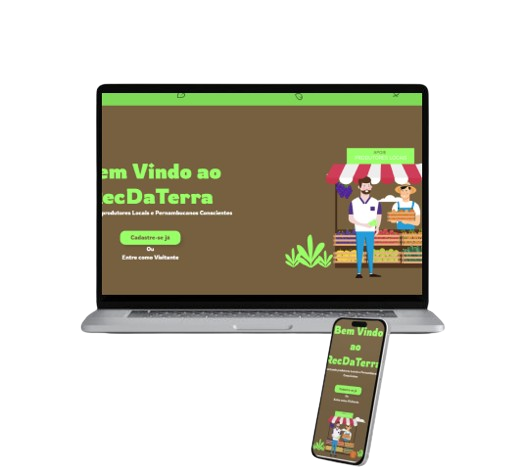
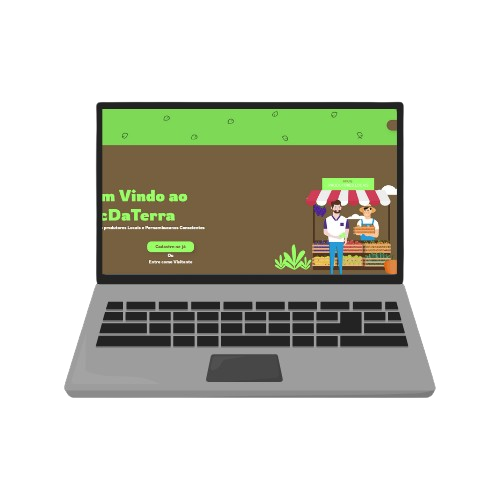
atualizando mockups e readme

diff --git a/src/pages/Projects.jsx b/src/pages/Projects.jsx
@@ -29,8 +29,7 @@ import Footer from "../components/Footer";
 /*Importação das Imagens*/
 import MockupRec from "../img/Mockup RecDaTerra.png";
 import MockupMarvel from "../img/Mockup Marvel.png";
-import MockupCaremind from "../img/Mockup Caremind.png";
-import MockupPorfolio from '../img/Mockup Porfolio.png'
+import MockupPorfolio from "../img/Mockup Portfolio.png";
 import MockupINEP from "../img/Mockup INEP.png";
 
 /*Importação da estilização da Paginação do Swiper*/
@@ -122,7 +121,7 @@ const Projects = () => {
         },
       ],
       teamMembers:
-      "Arthur Vinícius, Cecília Sitcovisky, Gabriel Henrique, Matheus Vinícius e Yuri Catunda",
+        "Arthur Vinícius, Cecília Sitcovisky, Gabriel Henrique, Matheus Vinícius e Yuri Catunda",
       projectWebsite: "https://rec-da-terra-front-end.vercel.app/",
       repo: "https://github.com/SIN-disciplina-PI3/RecDaTerra_FrontEnd",
     },
@@ -165,7 +164,7 @@ const Projects = () => {
         },
       ],
       teamMembers:
-      "Arthur Vinícius, Gabriel Henrique, Luiz Henrique & Yuri Catunda",
+        "Arthur Vinícius, Gabriel Henrique, Luiz Henrique & Yuri Catunda",
       projectWebsite: "https://projeto-dashboard-inep.vercel.app/index.html",
       repo: "https://github.com/gabrielhilins/Projeto-Dashboard-Inep",
     },
@@ -182,7 +181,7 @@ const Projects = () => {
           width: "30px", // Ajustado para responsividade
           description: "React",
         },
-        
+
         {
           src: "https://cdn.jsdelivr.net/gh/devicons/devicon@latest/icons/vitejs/vitejs-original.svg",
           alt: "Vite",
@@ -201,11 +200,10 @@ const Projects = () => {
           width: "30px", // Ajustado para responsividade
           description: "Figma",
         },
-        
       ],
-      teamMembers:
-        "Gabriel Henrique",
-      projectWebsite: "https://portfolio-gabriel-henriques-projects.vercel.app/",
+      teamMembers: "Gabriel Henrique",
+      projectWebsite:
+        "https://portfolio-gabriel-henriques-projects.vercel.app/",
       repo: "https://github.com/gabrielhilins/Portfolio",
     },
   ];
@@ -363,25 +361,31 @@ const Projects = () => {
               <Text fontSize={{ base: "10px", md: "14px" }} paddingTop="20px">
                 {t("teamMembers")}
               </Text>
-              <Text fontSize={{ base: "10px", md: "14px" }} padding={{base: "15px" , md: "0px"}}>
+              <Text
+                fontSize={{ base: "10px", md: "14px" }}
+                padding={{ base: "15px", md: "0px" }}
+              >
                 {project.teamMembers.split(",").map((name, index) => {
                   const trimmedName = name.trim(); // Remove espaços em branco antes e depois do nome
                   return trimmedName === "Gabriel Henrique" ? ( // Verifica se o nome é "Gabriel Henrique"
-                    <strong key={index}>
-                      {" "}
-                      {/*Se for, renderiza o nome em negrito*/}
-                      {trimmedName}
-                      {index < project.teamMembers.split(",").length - 1 // Verifica se não é o último nome
-                        ? ", " // Se não for o último, adiciona uma vírgula após o nome
-                        : ""}
-                    </strong>
+                    <a
+                      href="https://www.linkedin.com/in/gabriel-henrique-lins"
+                      target="_blank"
+                      rel="noopener noreferrer"
+                      key={index}
+                    >
+                      <strong>
+                        {trimmedName}
+                        {index < project.teamMembers.split(",").length - 1
+                          ? ", "
+                          : ""}
+                      </strong>
+                    </a>
                   ) : (
                     <span key={index}>
-                      {" "}
-                      {/*Se não for "Gabriel Henrique", renderiza o nome normalmente*/}
                       {trimmedName}
-                      {index < project.teamMembers.split(",").length - 1 // Verifica se não é o último nome
-                        ? ", " // Se não for o último, adiciona uma vírgula após o nome
+                      {index < project.teamMembers.split(",").length - 1
+                        ? ", "
                         : ""}
                     </span>
                   );
@@ -406,7 +410,6 @@ const Projects = () => {
               width={{ base: "80%", md: "100%" }} // Ajustado para responsividade
               maxWidth="500px"
               height="auto"
-              
             />
           </Box>
         </Box>

diff --git a/README.md b/README.md
@@ -49,120 +49,40 @@ In summary, my portfolio is not just a collection of projects; it is a visual an
 
 ## Tecnologias e Ferramentas Utilizadas no Portfolio / Technologies and Tools Used in the Portfolio
 
-- React, Vite, Chakra UI, Figma, Git, GitHub, Postman, Swiper, i18next
+- Visual Interface: (React)[https://react.dev/]
+- Styling: (Chakra UI)[https://v2.chakra-ui.com/]
+- Sliders: (Swiper js)[https://swiperjs.com/]
+- Deploy: (Vercel)[https://vercel.com/docs]
+- Translation: (118next)[https://www.i18next.com/]
+- Icons: (react-icons)[https://www.npmjs.com/package/react-icons]
+- UI/UX: (Figma)[https://help.figma.com/hc/en-us/categories/360002051613-Get-started]
+- Version Control: (Git)[https://git-scm.com/doc]
 
 ## Sobre Mim / About Me
 
 **Português:**
 
-Sou um desenvolvedor Full Stack em formação, com habilidades em Java, React e NodeJs, além de conhecimentos de UI/UX. Atualmente, estou cursando Sistemas para Internet na Universidade Católica de Pernambuco e estou em busca de minha primeira oportunidade profissional, seja estágio ou emprego.
+Sou um desenvolvedor Full Stack em formação, com habilidades em Java, React e NodeJs, entre outtas linguagens e além disso, com conhecimentos de UI/UX. Atualmente, estou cursando Sistemas para Internet na Universidade Católica de Pernambuco e estou em busca de minha primeira oportunidade profissional, seja estágio ou emprego.
 
 **English:**
 
 I am a Full Stack developer in training, with skills in Java, React, and NodeJs, as well as knowledge in UI/UX. I am currently studying Systems for the Internet at Universidade Católica de Pernambuco and am seeking my first professional opportunity, whether an internship or a job.
 
-## Projetos / Projects
-
-### 3. Visualização dos Personagens da Marvel
-
-**Português:**
-- **Descrição**: Site que utiliza a API Pública da Marvel Comics para exibir personagens da Marvel. Permite visualizar todos os personagens e pesquisar por um específico, oferecendo uma maneira interativa de explorar o Universo Marvel.
-- **Tecnologias**: TypeScript, React, Axios, Vite, Vercel & Chakra UI.
-
-**English:**
-- **Description**: A website that uses the Marvel Comics public API to display Marvel characters. Users can view all characters and search for a specific one, providing an interactive way to explore the Marvel Universe.
-- **Technologies**: TypeScript, React, Axios, Vite, Vercel & Chakra UI.
-
-### 2. RecDaterra
-
-**Português:**
-- **Descrição**: Plataforma digital que conecta pequenos empreendimentos locais, como produtores familiares e artesãos, à comunidade em Recife, promovendo a produção local e a sustentabilidade.
-- **Tecnologias**: React, SpringBoot, Vite, Vercel, Figma.
-
-**English:**
-- **Description**: A digital platform that connects local small businesses, such as family producers and artisans, to the community in Recife, promoting local production and sustainability.
-- **Technologies**: React, Vite, Vercel, Java Spring Boot.
-
-### 3. Dashboard de Gestão Educacional 2022
-
-**Português:**
-- **Descrição**: Sistema de gerenciamento e visualização de dados baseado nos microdados do INEP. Proporciona uma visão unificada e intuitiva da educação básica no Brasil, permitindo o acompanhamento claro e eficaz das situações das escolas e alunos.
-- **Tecnologias**: HTML, CSS, JavaScript, Node, Express, PostgreSQL, Figma.
-
-**English:**
-- **Description**: A data management and visualization system based on INEP's microdata. Provides a unified and intuitive view of basic education in Brazil, enabling clear and effective monitoring of school and student situations.
-- **Technologies**: HTML, CSS, JavaScript, Node, Express, PostgreSQL, Figma.
-
-## Habilidades / Skills
-
-**Português:**
-- **Linguagens e Tecnologias**: Java, Spring Boot, NodeJS, React, TypeScript, HTML, CSS, JavaScript, Flutter, Figma, PostgreSQL, MongoDB.
-- **Ferramentas e Bibliotecas**: Git, GitHub, Postman, Mockito, JUnit, Swiper, Chakra UI, react-i18next.
-- **Soft Skills**: Criatividade, Solução de Problemas, Resiliência, Aprendizado Contínuo, Gestão de Projetos, Comunicação Assertiva.
-
-**English:**
-- **Languages and Technologies**: Java, Spring Boot, NodeJS, React, TypeScript, HTML, CSS, JavaScript, Flutter, Figma, PostgreSQL, MongoDB.
-- **Tools and Libraries**: Git, GitHub, Postman, Mockito, JUnit, Swiper, Chakra UI, react-i18next.
-- **Soft Skills**: Creativity, Problem Solving, Resilience, Continuous Learning, Project Management, Assertive Communication.
-
-## Experiência / Experience
-
-**Português:**
-
-- **Residência de Software GrowUp 2024.1**
-  - **Empresa**: TPF Engenharia
-  - **Período**: mar de 2024 - jul de 2024 (5 meses)
-  - **Local**: Recife, Pernambuco, Brasil (Presencial)
-  - **Competências**: Low Code, Trabalho em equipe e mais 2 competências
-
-- **Residência de Software RiseUp 2023.2**
-  - **Empresa**: CESAR School
-  - **Período**: set de 2023 - dez de 2023 (4 meses)
-  - **Local**: Recife, Pernambuco, Brasil (Remoto)
-  - **Competências**: Controle e garantia de qualidade (QA/QC) e Engenharia de garantia da qualidade
-
-- **Voluntariado Rec'n'Play 2023**
-  - **Empresa**: Rec'n'Play
-  - **Período**: out de 2023 (1 mês)
-  - **Local**: Recife, Pernambuco, Brasil (Presencial)
-  - **Competências**: Recepção de eventos e Comunicação
-
-- **Residência de Software KickOff Embarque Digital 2023.1**
-  - **Empresa**: Porto Digital
-  - **Período**: mai de 2023 - jun de 2023 (2 meses)
-  - **Local**: Recife, Pernambuco, Brasil (Híbrido)
-  - **Competências**: Apresentação em público, Metodologias de desenvolvimento de software e mais 3 competências
-
-**English:**
-
-- **Software Residency GrowUp 2024.1**
-  - **Company**: TPF Engenharia
-  - **Period**: Mar 2024 - Jul 2024 (5 months)
-  - **Location**: Recife, Pernambuco, Brazil (On-site)
-  - **Skills**: Low Code, Teamwork, and 2 more skills
-
-- **Software Residency RiseUp 2023.2**
-  - **Company**: CESAR School
-  - **Period**: Sep 2023 - Dec 2023 (4 months)
-  - **Location**: Recife, Pernambuco, Brazil (Remote)
-  - **Skills**: Quality Control and Assurance (QA/QC) and Quality Assurance Engineering
-
-- **Volunteer at Rec'n'Play 2023**
-  - **Company**: Rec'n'Play
-  - **Period**: Oct 2023 (1 month)
-  - **Location**: Recife, Pernambuco, Brazil (On-site)
-  - **Skills**: Event Reception and Communication
-
-- **Software Residency KickOff Embarque Digital 2023.1**
-  - **Company**: Porto Digital
-  - **Period**: May 2023 - Jun 2023 (2 months)
-  - **Location**: Recife, Pernambuco, Brazil (Hybrid)
-  - **Skills**: Public Speaking, Software Development Methodologies, and 3 more skills
-
 ## Contato / Contact
 
-- **E-mail**: [gabrielhilins@gmail.com](mailto:gabrielhilins@gmail.com)
-- **LinkedIn**: [Gabriel Henrique Lins](https://www.linkedin.com/in/gabriel-henrique-lins/)
-- **GitHub**: [gabrielhilins](https://github.com/gabrielhilins)
-- **Portfolio**: [Portfolio](https://portfolio-gabriel-henriques-projects.vercel.app/)
+<div align="center">
 
+<a href="https://www.linkedin.com/in/pedro-cezar-77a444270/" target="_blank">
+  <img src="https://img.shields.io/badge/-LinkedIn-%230077B5?style=for-the-badge&logo=linkedin&logoColor=white" alt="LinkedIn">
+</a>
+<a href="mailto:pcdasilvabeserra@gmail.com" target="_blank">
+  <img src="https://img.shields.io/badge/-Gmail-%23333?style=for-the-badge&logo=gmail&logoColor=white" alt="Gmail">
+</a>
+ <a href="https://github.com/seu-usuario" target="_blank">
+  <img src="https://img.shields.io/badge/-GitHub-%23121011?style=for-the-badge&logo=github&logoColor=white" alt="GitHub">
+</a>
+<a href="https://seu-portfolio.com" target="_blank">
+  <img src="https://img.shields.io/badge/-Portfolio-%23000000?style=for-the-badge&logo=google-chrome&logoColor=white" alt="Portfolio">
+</a>
+
+</div>
